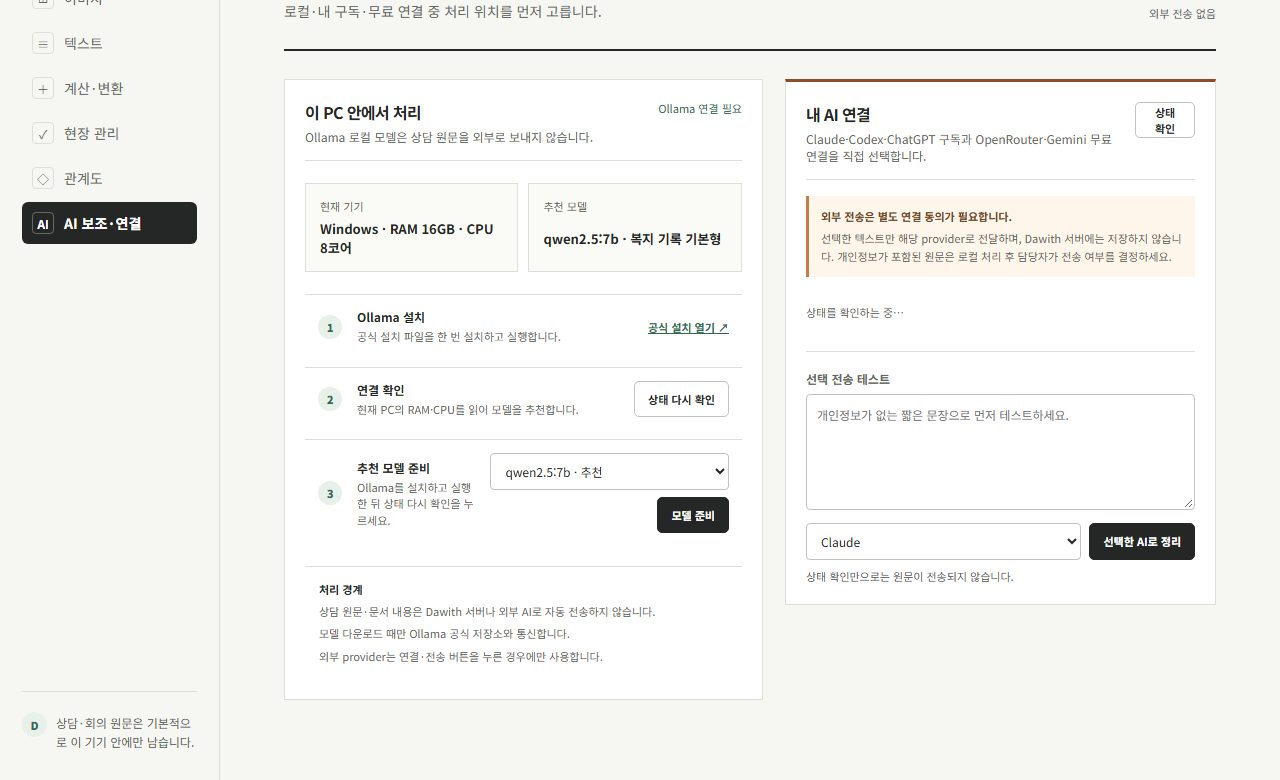
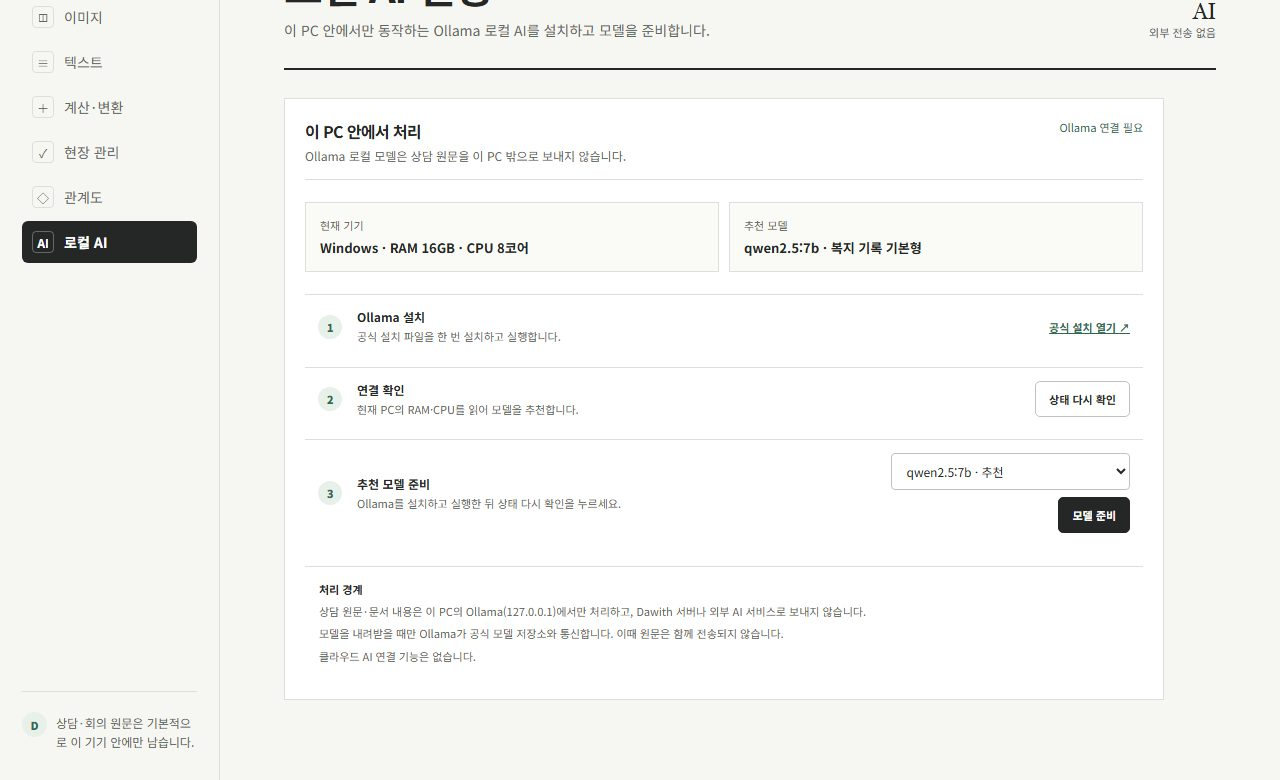
chore(welfare-office): v1.0.0 — record templates, form filling, local AI only
Site copy and screenshots describe record templates and filling
institution forms, legal page nav says 로컬 AI, and the release notes
cover the switch to local-only AI.

diff --git a/site/index.html b/site/index.html
@@ -34,14 +34,14 @@
     <main id="main">
       <section class="hero">
         <div class="wrap">
-          <a class="release-pill" href="./updates.html"><b id="releaseTag">새 버전 0.9.9</b><span>상담 기록·회의록 정리, 새 가계도·생태도, 처음 설정과 동의 →</span></a>
+          <a class="release-pill" href="./updates.html"><b id="releaseTag">새 버전 1.0.0</b><span>우리 기관 양식에 기록 채우기, AI는 이 PC 안에서만 →</span></a>
           <h1>복지관 서류 일,<br />한 프로그램에서.</h1>
           <p class="lede">붙임 서류 PDF 합치기, 한글 양식 확인, 상담 기록 정리, 개인정보 가리기, 가계도까지. 사회복지사가 매일 하는 서류 작업을 인터넷 없이 내 PC에서 끝냅니다. 누구나 무료로 쓸 수 있습니다.</p>
           <div class="hero-actions">
             <a id="heroDownload" class="btn btn-accent" data-asset="setup" href="https://github.com/dawith-ai/dawith-welfare-office/releases/latest"><svg viewBox="0 0 24 24" fill="none" stroke="currentColor" stroke-width="2.2" aria-hidden="true"><path d="M12 4v11m0 0-4.5-4.5M12 15l4.5-4.5M5 19h14" /></svg>Windows용 내려받기</a>
             <a class="btn btn-ghost" href="https://github.com/dawith-ai/dawith-welfare-office" target="_blank" rel="noreferrer">GitHub</a>
           </div>
-          <p class="hero-meta"><span id="heroVersion">0.9.9</span> · Windows 10·11 (64비트) · 설치 파일 <span id="heroSize">약 26MB</span> · Mac·Linux 준비 중 · <a href="./install.html">설치 도움말</a></p>
+          <p class="hero-meta"><span id="heroVersion">1.0.0</span> · Windows 10·11 (64비트) · 설치 파일 <span id="heroSize">약 26MB</span> · Mac·Linux 준비 중 · <a href="./install.html">설치 도움말</a></p>
           <p id="osNotice" class="os-notice" hidden></p>
 
           <div class="showcase">
@@ -57,7 +57,7 @@
         <div class="tabs" role="tablist" aria-label="화면 미리보기">
           <button class="tab" role="tab" aria-selected="true" data-img="home" data-alt="첫 화면" data-caption="<b>첫 화면</b> 왼쪽에서 업무 분류를 고르거나 검색창에 하려는 일을 적으면 맞는 도구가 바로 나옵니다."><i>⌂</i>홈</button>
           <button class="tab" role="tab" aria-selected="false" data-img="pdf" data-alt="PDF 합치기 화면" data-caption="<b>PDF 합치기·나누기</b> 신청서와 증빙 서류를 제출용 한 파일로 묶고, 필요한 쪽만 따로 뺍니다."><i>PDF</i>PDF</button>
-          <button class="tab" role="tab" aria-selected="false" data-img="record" data-alt="상담·회의 기록 화면" data-caption="<b>상담·회의 기록</b> 방문·전화 메모를 붙여 넣으면 기록·사정·계획으로 나눈 초안을 만듭니다."><i>LOG</i>상담 기록</button>
+          <button class="tab" role="tab" aria-selected="false" data-img="record" data-alt="상담·회의 기록 화면" data-caption="<b>상담 기록·회의록</b> 메모를 붙여 넣으면 고른 양식(관찰사항·상담내용·상담원 소견 등)대로 나누고, 기관 양식 파일에 채웁니다."><i>LOG</i>상담 기록</button>
           <button class="tab" role="tab" aria-selected="false" data-img="text" data-alt="개인정보 가리기 화면" data-caption="<b>개인정보 가리기</b> 전화번호·이메일·주민등록번호·계좌번호를 공유하기 전에 한 번에 가립니다."><i>TXT</i>개인정보</button>
           <button class="tab" role="tab" aria-selected="false" data-img="template" data-alt="기관 양식 작업공간 화면" data-caption="<b>기관 양식</b> 기관명과 담당자를 한 번 저장하면 회의록·사업계획서·결과보고서 틀이 채워집니다."><i>FORM</i>기관 양식</button>
           <button class="tab" role="tab" aria-selected="false" data-img="ai" data-alt="로컬 AI 설정 화면" data-caption="<b>로컬 AI 설정</b> PC 사양에 맞는 AI 모델을 이 PC 안에 준비합니다. 쓰지 않아도 됩니다."><i>AI</i>로컬 AI</button>
@@ -82,14 +82,14 @@
         <section class="section" id="records">
           <p class="section-label">기록</p>
           <div class="split">
-            <h2>상담 메모가<br />기록 초안으로.</h2>
-            <p>방문·전화 상담 뒤 적어 둔 메모를 붙여 넣으면 기록·논의, 사정·결정사항, 서비스계획으로 나눈 초안이 나옵니다. 기본은 AI 없이 규칙으로 정리하고, 원하면 PC 안의 로컬 AI로 다듬습니다.</p>
+            <h2>상담 메모가<br />우리 기관 양식으로.</h2>
+            <p>메모를 붙여 넣고 기록 양식을 고르면 그 항목대로 나눠 줍니다. 관찰사항·상담내용·상담원 소견처럼 기관에서 쓰는 틀을 직접 만들 수 있고, {{상담원 소견}} 같은 표식을 넣은 Word·한글(HWPX) 양식을 올리면 그 칸에 바로 채워 줍니다. 회의록도 같은 방식입니다.</p>
           </div>
-          <figure class="shot"><img src="./assets/record.jpg" alt="상담·회의 기록 화면. 왼쪽에 가정방문 메모, 오른쪽에 항목별 초안이 나뉘어 있다." loading="lazy" width="1280" height="780" /></figure>
+          <figure class="shot"><img src="./assets/record.jpg" alt="상담 기록·회의록 정리 화면. 관찰·상담·소견형 양식을 골라 메모가 관찰사항, 상담내용, 상담원 소견, 향후 계획으로 나뉘어 있다." loading="lazy" width="1280" height="780" /></figure>
           <div class="points">
             <div><h3>항목별로 나눠 줍니다</h3><p>상담일지, 사례회의 등 기록 유형을 고르면 그 형식에 맞춰 내용을 나눕니다.</p></div>
             <div><h3>단서를 먼저 보여 줍니다</h3><p>관계, 주제, 후속 단서를 위에 따로 보여 줘서 빠뜨린 내용이 없는지 확인하기 쉽습니다.</p></div>
-            <div><h3>이 PC에 보관합니다</h3><p>확정한 기록은 이 PC에 암호화해 저장하고, 필요하면 문서로 내보냅니다.</p></div>
+            <div><h3>AI도 이 PC 안에서</h3><p>기본은 AI 없이 규칙으로 나누고, 원하면 PC 안의 로컬 AI로 다듬습니다. 원문은 PC 밖으로 나가지 않습니다.</p></div>
             <div><h3>확정은 담당자가</h3><p>초안은 어디까지나 초안입니다. 원문과 대조해 고친 뒤 공식 기록으로 쓰세요.</p></div>
           </div>
         </section>

diff --git a/site/updates.html b/site/updates.html
@@ -33,8 +33,18 @@
           <h1>새 버전에서 달라진 것</h1>
           <p>새 버전은 <a href="./#download">내려받기</a>에서 받아 덮어 설치하면 됩니다. 저장해 둔 기록은 그대로 남습니다.</p>
         </section>
+        <article class="release" id="v1.0.0">
+          <div class="release-meta"><b>1.0.0</b><span>2026년 11월 11일</span><br /><span class="badge hot">최신</span></div>
+          <div><h2>우리 기관 양식에 기록을 채우고,<br />AI는 이 PC 안에서만.</h2>
+            <ul>
+              <li><b>기록 양식</b>: 기본 상담기록, 관찰·상담·소견형, 사례회의록, 일반 회의록 중에서 고르거나 항목을 직접 만들어 저장합니다.</li>
+              <li><b>기관 양식에 채우기</b>: {{관찰사항}}, {{상담원 소견}} 같은 표식을 넣은 Word·한글(HWPX) 양식을 올리면 그 칸에 정리한 내용을 넣어 내려받습니다. 어떤 표식이 채워졌고 비었는지 보여 줍니다.</li>
+              <li><b>로컬 AI만</b>: 상담 원문을 지키려고 클라우드 AI(ChatGPT·Claude·Gemini 등) 연결 기능을 모두 없앴습니다. AI는 이 PC의 Ollama로만 돌아갑니다. 이전에 저장한 클라우드 연결 정보는 자동으로 지웁니다.</li>
+              <li>방침이 바뀌어 처음 설정(개인정보처리방침·이용 조건 동의)을 한 번 다시 받습니다.</li>
+            </ul></div>
+        </article>
         <article class="release" id="v0.9.9">
-          <div class="release-meta"><b>0.9.9</b><span>2026년 11월 10일</span><br /><span class="badge hot">최신</span></div>
+          <div class="release-meta"><b>0.9.9</b><span>2026년 11월 10일</span></div>
           <div><h2>상담 기록·회의록 정리와<br />새로 만든 가계도·생태도.</h2>
             <ul>
               <li><b>상담 기록·회의록 정리</b>: 메모를 붙여 넣으면 상담은 개요·주요 호소·사정·개입·계획으로, 회의는 개요·논의·결정 사항·할 일로 나눠 줍니다. 규칙(AI 없음), 로컬 AI, 연결한 클라우드 AI 중에서 고르고, 클라우드로 보낼 때는 보낼 내용을 먼저 보여 주고 개인정보를 가립니다.</li>

diff --git a/site/faq.html b/site/faq.html
@@ -55,7 +55,7 @@
           </div>
           <div class="faq-group"><h2>AI</h2>
           <details id="noai"><summary>AI 없이도 쓸 수 있나요?</summary><div><p>네. 모든 기본 기능은 AI 없이 동작합니다.</p></div></details>
-          <details id="local"><summary>로컬 LLM으로 쓸 수 있나요?</summary><div><p>됩니다. 앱의 <b>AI 보조·연결</b>에서 PC 사양을 확인하고 Ollama와 추천 모델을 준비하세요. <a href="./connect.html#local">로컬 AI 연결하기</a></p></div></details>
+          <details id="local"><summary>로컬 LLM으로 쓸 수 있나요?</summary><div><p>됩니다. 앱의 <b>로컬 AI 설정</b>에서 PC 사양을 확인하고 Ollama와 추천 모델을 준비하세요. <a href="./connect.html">로컬 AI 준비하기</a></p></div></details>
           <details id="subscription"><summary>ChatGPT·Claude 같은 클라우드 AI는 쓸 수 없나요?</summary><div><p>쓸 수 없습니다. 상담 원문을 지키려고 클라우드 AI로 보내는 기능을 일부러 넣지 않았습니다. 대신 이 PC 안에서 도는 로컬 AI를 씁니다. <a href="./connect.html">로컬 AI 준비하기</a></p></div></details>
           </div>
         </div>

diff --git a/site/data-processing.html b/site/data-processing.html
@@ -19,7 +19,7 @@
           <a class="opt" href="./updates.html">업데이트 소식</a>
           <a class="opt" href="./story.html">만든 이야기</a>
           <a href="./install.html">설치 도움말</a>
-          <a href="./connect.html">AI 연결</a>
+          <a href="./connect.html">로컬 AI</a>
           <a class="opt" href="./faq.html">자주 묻는 질문</a>
           <a href="./#contact">문의</a>
           <a class="nav-cta" href="./#download">내려받기</a>
@@ -126,7 +126,7 @@
           <a href="https://github.com/dawith-ai/dawith-welfare-office/issues" target="_blank" rel="noreferrer">문제 알리기</a>
           <a href="https://welfare-hub.site/contact" target="_blank" rel="noreferrer">문의 게시판</a>
           <a href="./install.html">설치 도움말</a>
-          <a href="./connect.html">AI 연결 도움말</a>
+          <a href="./connect.html">로컬 AI 도움말</a>
           <a href="./faq.html">자주 묻는 질문</a>
           <a href="./updates.html">업데이트 소식</a>
           <a href="./story.html">만든 이야기</a>

diff --git a/site/privacy.html b/site/privacy.html
@@ -19,7 +19,7 @@
           <a class="opt" href="./updates.html">업데이트 소식</a>
           <a class="opt" href="./story.html">만든 이야기</a>
           <a href="./install.html">설치 도움말</a>
-          <a href="./connect.html">AI 연결</a>
+          <a href="./connect.html">로컬 AI</a>
           <a class="opt" href="./faq.html">자주 묻는 질문</a>
           <a href="./#contact">문의</a>
           <a class="nav-cta" href="./#download">내려받기</a>
@@ -136,7 +136,7 @@
           <a href="https://github.com/dawith-ai/dawith-welfare-office/issues" target="_blank" rel="noreferrer">문제 알리기</a>
           <a href="https://welfare-hub.site/contact" target="_blank" rel="noreferrer">문의 게시판</a>
           <a href="./install.html">설치 도움말</a>
-          <a href="./connect.html">AI 연결 도움말</a>
+          <a href="./connect.html">로컬 AI 도움말</a>
           <a href="./faq.html">자주 묻는 질문</a>
           <a href="./updates.html">업데이트 소식</a>
           <a href="./story.html">만든 이야기</a>

diff --git a/site/terms.html b/site/terms.html
@@ -19,7 +19,7 @@
           <a class="opt" href="./updates.html">업데이트 소식</a>
           <a class="opt" href="./story.html">만든 이야기</a>
           <a href="./install.html">설치 도움말</a>
-          <a href="./connect.html">AI 연결</a>
+          <a href="./connect.html">로컬 AI</a>
           <a class="opt" href="./faq.html">자주 묻는 질문</a>
           <a href="./#contact">문의</a>
           <a class="nav-cta" href="./#download">내려받기</a>
@@ -108,7 +108,7 @@
           <a href="https://github.com/dawith-ai/dawith-welfare-office/issues" target="_blank" rel="noreferrer">문제 알리기</a>
           <a href="https://welfare-hub.site/contact" target="_blank" rel="noreferrer">문의 게시판</a>
           <a href="./install.html">설치 도움말</a>
-          <a href="./connect.html">AI 연결 도움말</a>
+          <a href="./connect.html">로컬 AI 도움말</a>
           <a href="./faq.html">자주 묻는 질문</a>
           <a href="./updates.html">업데이트 소식</a>
           <a href="./story.html">만든 이야기</a>

diff --git a/site/cookies.html b/site/cookies.html
@@ -19,7 +19,7 @@
           <a class="opt" href="./updates.html">업데이트 소식</a>
           <a class="opt" href="./story.html">만든 이야기</a>
           <a href="./install.html">설치 도움말</a>
-          <a href="./connect.html">AI 연결</a>
+          <a href="./connect.html">로컬 AI</a>
           <a class="opt" href="./faq.html">자주 묻는 질문</a>
           <a href="./#contact">문의</a>
           <a class="nav-cta" href="./#download">내려받기</a>
@@ -88,7 +88,7 @@
           <a href="https://github.com/dawith-ai/dawith-welfare-office/issues" target="_blank" rel="noreferrer">문제 알리기</a>
           <a href="https://welfare-hub.site/contact" target="_blank" rel="noreferrer">문의 게시판</a>
           <a href="./install.html">설치 도움말</a>
-          <a href="./connect.html">AI 연결 도움말</a>
+          <a href="./connect.html">로컬 AI 도움말</a>
           <a href="./faq.html">자주 묻는 질문</a>
           <a href="./updates.html">업데이트 소식</a>
           <a href="./story.html">만든 이야기</a>

diff --git a/site/overseas.html b/site/overseas.html
@@ -19,7 +19,7 @@
           <a class="opt" href="./updates.html">업데이트 소식</a>
           <a class="opt" href="./story.html">만든 이야기</a>
           <a href="./install.html">설치 도움말</a>
-          <a href="./connect.html">AI 연결</a>
+          <a href="./connect.html">로컬 AI</a>
           <a class="opt" href="./faq.html">자주 묻는 질문</a>
           <a href="./#contact">문의</a>
           <a class="nav-cta" href="./#download">내려받기</a>
@@ -86,7 +86,7 @@
           <a href="https://github.com/dawith-ai/dawith-welfare-office/issues" target="_blank" rel="noreferrer">문제 알리기</a>
           <a href="https://welfare-hub.site/contact" target="_blank" rel="noreferrer">문의 게시판</a>
           <a href="./install.html">설치 도움말</a>
-          <a href="./connect.html">AI 연결 도움말</a>
+          <a href="./connect.html">로컬 AI 도움말</a>
           <a href="./faq.html">자주 묻는 질문</a>
           <a href="./updates.html">업데이트 소식</a>
           <a href="./story.html">만든 이야기</a>

diff --git a/public/sw.js b/public/sw.js
@@ -1,4 +1,4 @@
-const CACHE_NAME = 'dawith-welfare-office-0.9.9';
+const CACHE_NAME = 'dawith-welfare-office-1.0.0';
 const APP_SHELL = [
   './',
   './index.html',
